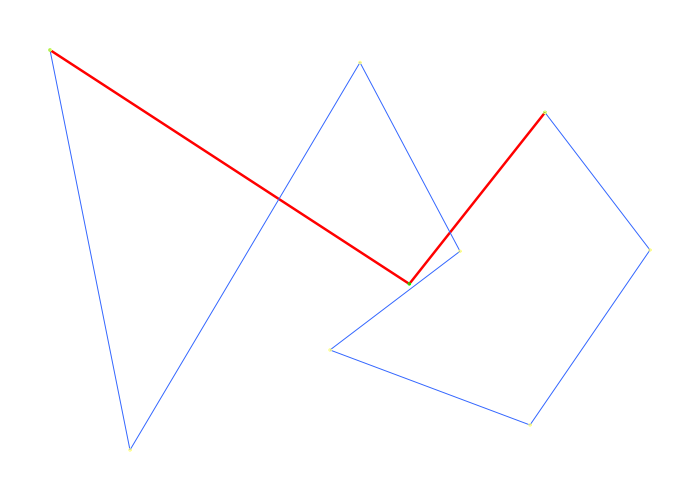
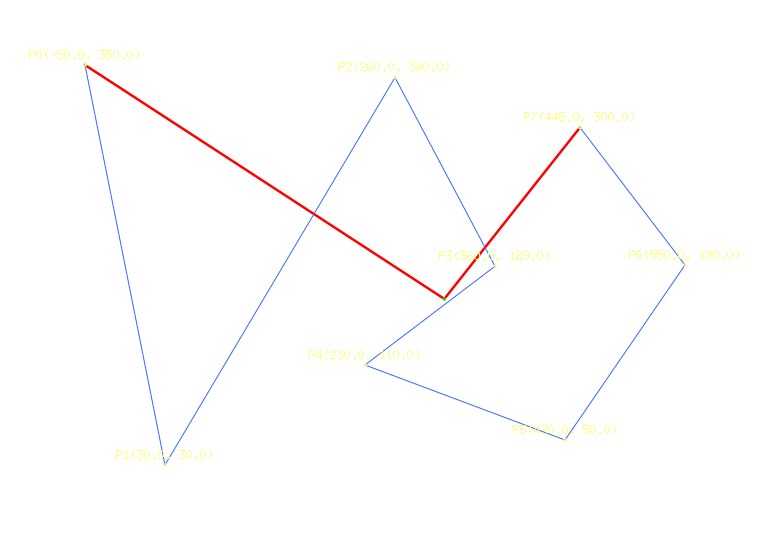
feat: add test

diff --git a/bezier.go b/bezier.go
@@ -131,20 +131,20 @@ func getPreferredDimension(corner BezierPoints) (int, int, float64, float64, flo
 
 	if dx < 400 {
 		r_x = 400.0 / dx
-		pref_x = 500
-	} else if dx > 550 {
-		pref_x = int(dx) + 100
+		pref_x = 550
+	} else if dx > 515 {
+		pref_x = int(dx) + 170
 	}
 
 	if dy < 400 {
 		r_y = 400.0 / dy
-		pref_y = 500
-	} else if dy > 550 {
-		pref_y = int(dy) + 100
+		pref_y = 550
+	} else if dy > 515 {
+		pref_y = int(dy) + 170
 	}
 
-	add_x = 50 - min_x*r_x
-	add_y = 50 - min_y*r_y
+	add_x = 85 - min_x*r_x
+	add_y = 85 - min_y*r_y
 
 	return pref_x, pref_y, r_x, r_y, add_x, add_y
 }
@@ -157,32 +157,32 @@ func drawSketch(points, corner BezierPoints, iter int) {
 
 		newSketch := gg.NewContext(pref_x, pref_y)
 		newSketch.SetRGB(1, 0, 0)
-		newSketch.InvertY()
 
-		newSketch.MoveTo(r_x*points.list[0].x+add_x, r_y*points.list[0].y+add_y)
+		newSketch.MoveTo(r_x*points.list[0].x+add_x, -1*(r_y*points.list[0].y+add_y)+float64(pref_y))
 		for i := 0; i < points.neff; i += step {
-			newSketch.LineTo(r_x*points.list[i].x+add_x, r_y*points.list[i].y+add_y)
+			newSketch.LineTo(r_x*points.list[i].x+add_x, -1*(r_y*points.list[i].y+add_y)+float64(pref_y))
 		}
 		newSketch.SetLineWidth(2.5)
 		newSketch.Stroke()
 
 		newSketch.SetRGB(0.2, 0.4, 1)
-		newSketch.MoveTo(r_x*corner.list[0].x+add_x, r_y*corner.list[0].y+add_y)
+		newSketch.MoveTo(r_x*corner.list[0].x+add_x, -1*(r_y*corner.list[0].y+add_y)+float64(pref_y))
 		for i := 1; i < corner.neff; i++ {
-			newSketch.LineTo(r_x*corner.list[i].x+add_x, r_y*corner.list[i].y+add_y)
+			newSketch.LineTo(r_x*corner.list[i].x+add_x, -1*(r_y*corner.list[i].y+add_y)+float64(pref_y))
 		}
 		newSketch.SetLineWidth(1)
 		newSketch.Stroke()
 
 		newSketch.SetRGB(0, 1, 0)
 		for i := 0; i < points.neff; i += step {
-			newSketch.DrawPoint(r_x*points.list[i].x+add_x, r_y*points.list[i].y+add_y, 1.2)
+			newSketch.DrawPoint(r_x*points.list[i].x+add_x, -1*(r_y*points.list[i].y+add_y)+float64(pref_y), 1.2)
 			newSketch.Stroke()
 		}
 
 		newSketch.SetRGB(1, 1, 0.5)
 		for i := 0; i < corner.neff; i++ {
-			newSketch.DrawPoint(r_x*corner.list[i].x+add_x, r_y*corner.list[i].y+add_y, 1.2)
+			newSketch.DrawPoint(r_x*corner.list[i].x+add_x, -1*(r_y*corner.list[i].y+add_y)+float64(pref_y), 1.2)
+			newSketch.DrawStringAnchored(fmt.Sprintf("P%d(%0.1f, %0.1f)", i, corner.list[i].x, corner.list[i].y), r_x*corner.list[i].x+add_x, -1*(r_y*corner.list[i].y+add_y)+float64(pref_y), 0.5, -0.5)
 			newSketch.Stroke()
 		}
 
